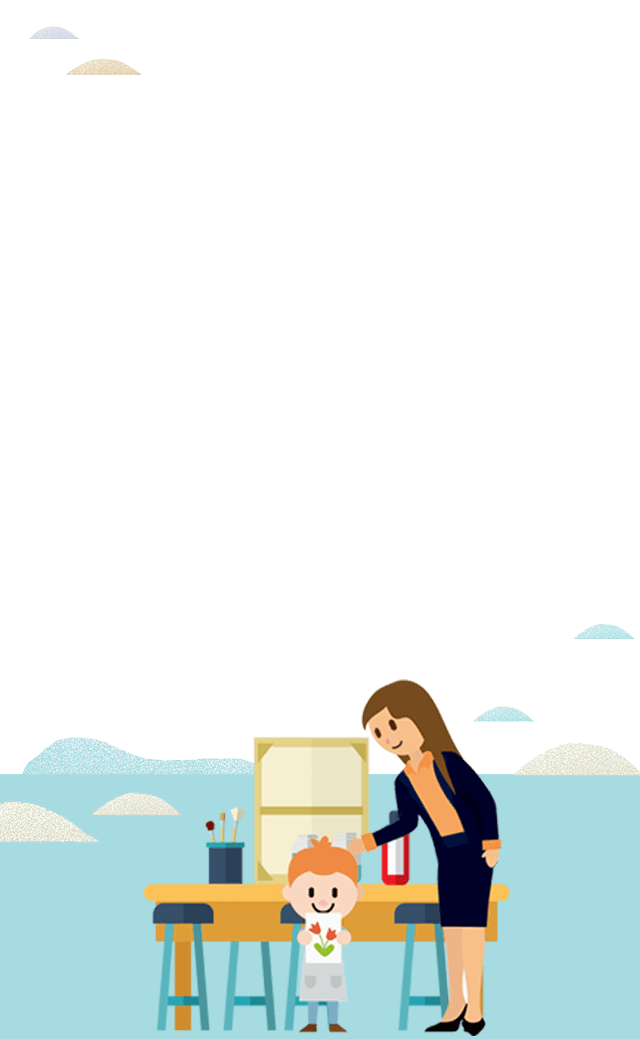
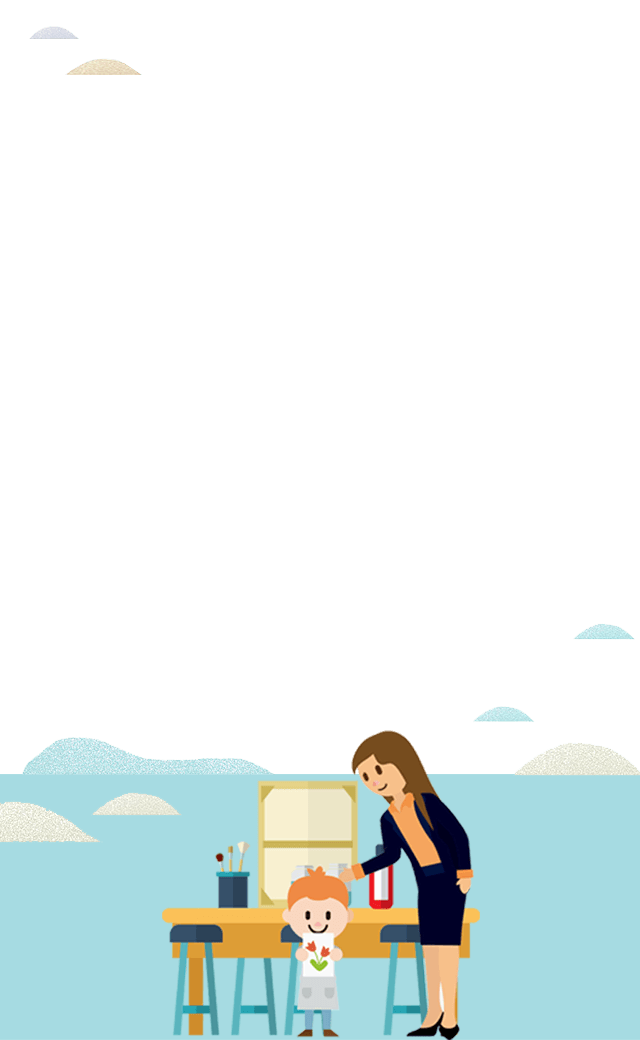
##

Changed region(s): [[0.2188, 0.6462, 0.8125, 1.0]]

diff --git a/css/index.css b/css/index.css
@@ -19,7 +19,6 @@
     from{opacity: 1;}
     to{opacity: 0;}
 }
-
 @-webkit-keyframes picRotate {
     from{-webkit-transform: rotate(0deg);
         -o-transform: rotate(0deg);
@@ -36,78 +35,44 @@
         -o-transform: rotate(90deg);
         transform: rotate(90deg);}
 }
-.pic{position: absolute; width: 68%; height: 68vw; left: 16%; top: 9%; opacity: 0; -webkit-transform-origin: 0 0; -moz-transform-origin: 0 0; -ms-transform-origin: 0 0; -o-transform-origin: 0 0; transform-origin: 0 0;
-    animation:fadeIn 0.8s ease-in 0.1s forwards;}
-.pic img{width: 65vw; position: absolute; left: 1.5vw; top: 1.5vw;}
-.page3 .pic img,.page9 .pic img{width: 66vw; position: absolute; left: 1vw; top: 1vw;}
-.page7 .pic img{width: 67vw; position: absolute; left: 0.5vw; top: 0.5vw;}
+.pic{position: absolute; width: 66%; height: 66vw; left: 17%; top: 7%; opacity: 0; -webkit-transform-origin: 0 0; -moz-transform-origin: 0 0; -ms-transform-origin: 0 0; -o-transform-origin: 0 0; transform-origin: 0 0; -webkit-animation: fadeIn 0.8s ease-in 0.1s forwards; -o-animation: fadeIn 0.8s ease-in 0.1s forwards; animation: fadeIn 0.8s ease-in 0.1s forwards;}
+.pic img{width: 64vw; height: 64vw; position: absolute; left: 1vw; top: 1vw;}
 .border{width: 100%; height: 100%; background-color: transparent; position: absolute; border: 2vw solid #afe2a6; }
-
-.word{position: absolute; top: calc(11% + 68vw);opacity: 0;
-    animation:fadeIn 0.8s ease-in 0.3s forwards;
-}
+.word{position: absolute; top: calc(9% + 66vw);opacity: 0; -webkit-animation: fadeIn 0.8s ease-in 0.3s forwards; -o-animation: fadeIn 0.8s ease-in 0.3s forwards; animation: fadeIn 0.8s ease-in 0.3s forwards; }
 .bg{width: 100%; height: 100%; opacity: 0; animation: fadeIn 0.8s ease-in 0.3s forwards;}
-
-
-.page1 .pic{animation:fadeIn 0.8s ease-in 0.1s forwards;}
+.page1 .pic{-webkit-animation: fadeIn 0.8s ease-in 0.1s forwards; -o-animation: fadeIn 0.8s ease-in 0.1s forwards; animation: fadeIn 0.8s ease-in 0.1s forwards;}
 .fadeIn .word{ opacity: 1;}
-.page1 .word,.page2 .word{width: 50%; left: 25%;}
+.page1 .word{width: 80%; left: 10%;}
+.page2 .word{width: 66.7%; left: 17%;}
 .page1 .bg{background: url("../img/bg1.png") no-repeat bottom left; -webkit-background-size: 100% auto; background-size: 100% auto;}
-
-
-.page.fadeOut .pic{animation: picRotate 1s ease-in 0s forwards,fadeOut 1s ease-in 0s forwards;}
-.page.fadeOut .word{animation: fadeOut 1s ease-in 0s forwards;}
-.page.fadeOut .bg{animation:fadeOut 1s ease-in 0s forwards;}
-
+.page.fadeOut .pic{-webkit-animation: picRotate 1s ease-in 0s forwards, fadeOut 1s ease-in 0s forwards; -o-animation: picRotate 1s ease-in 0s forwards, fadeOut 1s ease-in 0s forwards; animation: picRotate 1s ease-in 0s forwards, fadeOut 1s ease-in 0s forwards;}
+.page.fadeOut .word{ -webkit-animation: fadeOut 1s ease-in 0s forwards; -o-animation: fadeOut 1s ease-in 0s forwards; animation: fadeOut 1s ease-in 0s forwards;}
+.page.fadeOut .bg{-webkit-animation: fadeOut 1s ease-in 0s forwards; -o-animation: fadeOut 1s ease-in 0s forwards; animation: fadeOut 1s ease-in 0s forwards;}
 .borderB{border-color: #a6dbe2;}
 .page2 .bg{background: url("../img/bg2.png") no-repeat bottom left; -webkit-background-size: 100% auto; background-size: 100% auto;}
 .page3 .bg{background: url("../img/bg3.png") no-repeat bottom left; -webkit-background-size: 100% auto; background-size: 100% auto;}
-.page3 .word{width: 54.6%; left: 22.7%;}
+.page3 .word{width: 45.4%; left: 27.3%;}
 .page4 .bg{background: url("../img/bg4.png") no-repeat bottom left; -webkit-background-size: 100% auto; background-size: 100% auto;}
-.page4 .word{width: 60%; left: 20%;}
+.page4 .word{width: 45.4%; left: 21%;}
 .page5 .bg{background: url("../img/bg5.png") no-repeat bottom left; -webkit-background-size: 100% auto; background-size: 100% auto;}
 .page5 .bg p{font-size: 0.55rem; color: #121212;position: absolute;right: 17%; top: calc(9% - 1rem);}
-.page5 .word{width: 69%; left: 16.5%;}
+.page5 .word{width: 76.5%; left: 14.75%;}
 .page6 .bg{background: url("../img/bg6.png") no-repeat bottom left; -webkit-background-size: 100% auto; background-size: 100% auto;}
-.page6 .word{width: 65%; left: 16.5%;}
+.page6 .word{width: 70%; left: 15%;}
 .page7 .bg{background: url("../img/bg7.png") no-repeat bottom left; -webkit-background-size: 100% auto; background-size: 100% auto;}
-.page7 .word{width: 60%; left: 16.5%;}
+.page7 .word{width: 69%; left: 15.5%;}
 .page8 .bg{background: url("../img/bg8.png") no-repeat bottom left; -webkit-background-size: 100% auto; background-size: 100% auto;}
-.page8 .word{width: 74%; left: 16.5%; top: auto; bottom: 9.5%;}
+.page8 .word{width: 43.8%; left: 13.5%; top: auto; bottom: 6.5%;}
 .page8 .pic8-icon{width: 12.6vw; height: 12.6vw; background: url("../img/icon8.png") no-repeat center center;-webkit-background-size: contain; background-size: contain; position: absolute; right: -8vw; top: -6vw; border: none;}
 .page9 .bg{background: url("../img/bg9.png") no-repeat bottom left; -webkit-background-size: 100% auto; background-size: 100% auto;}
-.page9 .word{width: 70%; left: 15%;}
-
-
+.page9 .word{width: 55.6%; left: 22.2%;}
 .page11{background: url("../img/bg10.png") no-repeat;-webkit-background-size: 100% 100%;background-size: 100% 100%;}
 .blank11{width: 59.7vw; height: 72.34vw; background: url("../img/word10.png") no-repeat;-webkit-background-size: 100% 100%;background-size: 100% 100%; position: absolute; left: 24%; top: 34%;}
 .code1,.code2{width: 20.46vw; position: absolute; top: 46%; left: 11%;}
 .code2{left: 57.3%;}
-
-
 .page10{background: url("../img/bg11.png") no-repeat 9.6% 4%;-webkit-background-size: cover;background-size: cover; }
 .page10-border{position: absolute; width: 100%; height: 100%; left: 0; top: 0; background-color: transparent; border: 0.5rem solid #e2d4a6;}
-
-
-
-
-
-
-
-
-
-
-
-
-
-
-
-
-
-
-
-
-
+.page10-word{width: 94.5%; margin: 24.3vw auto 0;}
 /*==横屏==*/
 @-webkit-keyframes rotation {
     10% { transform: rotate(-90deg); -webkit-transform: rotate(-90deg) }
@@ -115,24 +80,19 @@
     90% { transform: rotate(-90deg); -webkit-transform: rotate(-90deg) }
     100% { transform: rotate(-90deg); -webkit-transform: rotate(-90deg) }
 }
-
 @keyframes rotation {
     10% {transform: rotate(-90deg); -webkit-transform: rotate(-90deg) }
     50%, 60% {transform: rotate(0deg); -webkit-transform: rotate(0deg)}
     90% { transform: rotate(-90deg); -webkit-transform: rotate(-90deg) }
     100% {transform: rotate(-90deg); -webkit-transform: rotate(-90deg) }
 }
-
 #orientLayer { display: none }
 @media screen and (min-aspect-ratio: 12/9) {
     #orientLayer { display: block }
 }
-.mod-orient-layer { display: none; position: fixed; height: 100%; width: 100%; left: 0; top: 0; right: 0; bottom: 0; background: #000; z-index: 9997 }
+.mod-orient-layer { display: none; position: fixed; height: 100%; width: 100%; left: 0; top: 0; right: 0; bottom: 0; background: #000; z-index: 9997; }
 .mod-orient-layer__content { position: absolute; width: 100%; top: 45%; margin-top: -75px; text-align: center }
 .mod-orient-layer__icon-orient { background-image: url('../img/crossWarning.png'); display: inline-block; width: 67px; height: 109px; transform: rotate(-90deg);
     -webkit-transform: rotate(-90deg); -webkit-animation: rotation infinite 1.5s ease-in-out; animation: rotation infinite 1.5s ease-in-out;
     -webkit-background-size: 67px; background-size: 67px }
 .mod-orient-layer__desc { margin-top: 20px; font-size: 15px; color: #fff }
-
-
-

diff --git a/index.html b/index.html
@@ -16,26 +16,25 @@
 <audio src="audio/bgm.mp3" loop preload="auto" id="bgm"></audio>
 
 <div class="page page11" id="page11">
-
     <div class="blank11">
         <img src="img/code1.png" alt="" class="code1"/>
         <img src="img/code2.png" alt="" class="code2"/>
     </div>
 </div>
 <div class="page page10" id="page10">
-    <div class="page10-border"></div>
+    <img class="page10-word" src="img/page10-word.png" alt=""/>
 </div>
 <div class="page page9" id="page9">
     <div class="bg"></div>
     <div class="pic">
-        <img src="img/pic9.png" alt=""/>
+        <img src="img/pic9.gif" alt=""/>
         <div class="border"></div>
     </div>
     <img src="img/word9.png" alt="" class="word"/>
 </div>
 <div class="page page8" id="page8">
     <div class="pic">
-        <img src="img/pic8.png" alt=""/>
+        <img src="img/pic8.gif" alt=""/>
         <div class="border borderB"></div>
         <div class="pic8-icon"></div>
     </div>
@@ -45,7 +44,7 @@
 <div class="page page7" id="page7">
     <div class="bg"></div>
     <div class="pic">
-        <img src="img/pic7.png" alt=""/>
+        <img src="img/pic7.gif" alt=""/>
         <div class="border borderB"></div>
     </div>
     <img src="img/word7.png" alt="" class="word"/>
@@ -53,17 +52,17 @@
 <div class="page page6" id="page6">
     <div class="bg"></div>
     <div class="pic">
-        <img src="img/pic6.png" alt=""/>
+        <img src="img/pic6.gif" alt=""/>
         <div class="border borderB"></div>
     </div>
     <img src="img/word6.png" alt="" class="word"/>
 </div>
 <div class="page page5" id="page5">
     <div class="bg">
-        <p>牛宏超摄</p>
+        <!--<p>牛宏超摄</p>-->
     </div>
     <div class="pic">
-        <img src="img/pic5.png" alt=""/>
+        <img src="img/pic5.gif" alt=""/>
         <div class="border borderB"></div>
     </div>
     <img src="img/word5.png" alt="" class="word"/>
@@ -71,7 +70,7 @@
 <div class="page page4" id="page4">
     <div class="bg"></div>
     <div class="pic">
-        <img src="img/pic4.png" alt=""/>
+        <img src="img/pic4.gif" alt=""/>
         <div class="border"></div>
     </div>
     <img src="img/word4.png" alt="" class="word"/>
@@ -126,12 +125,12 @@
                 "img/pic1.png",
                 "img/pic2.png",
                 "img/pic3.png",
-                "img/pic4.png",
-                "img/pic5.png",
-                "img/pic6.png",
-                "img/pic7.png",
-                "img/pic8.png",
-                "img/pic9.png",
+                "img/pic4.gif",
+                "img/pic5.gif",
+                "img/pic6.gif",
+                "img/pic7.gif",
+                "img/pic8.gif",
+                "img/pic9.gif",
                 "img/word1.png",
                 "img/word2.png",
                 "img/word3.png",
@@ -142,6 +141,7 @@
                 "img/word8.png",
                 "img/word9.png",
                 "img/word10.png",
+                "img/page10-word.png",
                 "img/bg1.png",
                 "img/bg2.png",
                 "img/bg3.png",
@@ -196,8 +196,6 @@
 //                $(".music").removeClass("play");
 //            }
 //        });
-
-
         var canPlay = true;
         function toNext() {
             $(".page").each(function (index, item){
@@ -234,10 +232,6 @@
                 }, 200)
             }
         }
-
-
-
-
     })(jQuery);
 </script>
 </body>
